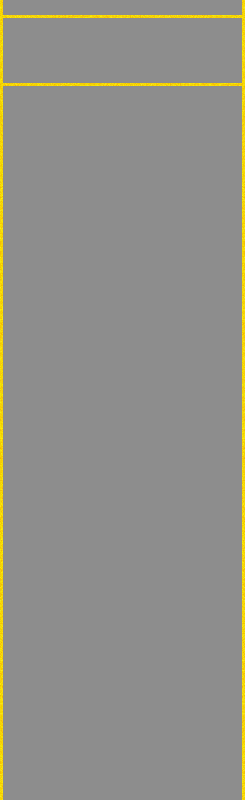
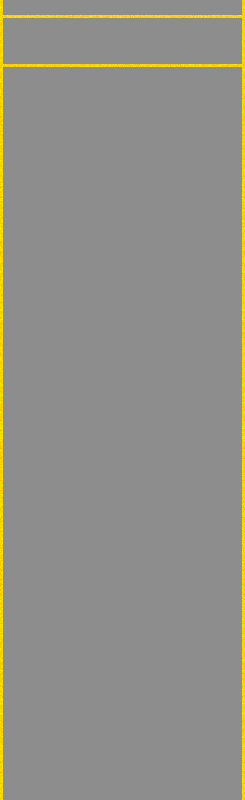
Note types reduced from 5 to 4 with note graphics.

Changed region(s): [[0.0286, 0.0625, 0.9714, 0.125]]

diff --git a/rhythm.py b/rhythm.py
@@ -43,10 +43,10 @@ def main(screen, track):
 	total_notes = 0
 	bad_notes = 0
 
-	tapped = [False, False, False, False, False]  # true if the key has not be released
+	tapped = [False, False, False, False]  # true if the key has not be released
 
 	# true if a note will be scored from presses q,w,e,r,t
-	scoring_presses = [False, False, False, False, False]
+	scoring_presses = [False, False, False, False]
 
 	while 1:
 		# event phase
@@ -68,24 +68,18 @@ def main(screen, track):
 				scoring_presses[1] = True
 		else:
 			tapped[1] = False
-		if keys[pygame.constants.K_e]:
+		if keys[pygame.constants.K_o]:
 			if not tapped[2]:
 				tapped[2] = True
 				scoring_presses[2] = True
 		else:
 			tapped[2] = False
-		if keys[pygame.constants.K_o]:
+		if keys[pygame.constants.K_p]:
 			if not tapped[3]:
 				tapped[3] = True
 				scoring_presses[3] = True
 		else:
 			tapped[3] = False
-		if keys[pygame.constants.K_p]:
-			if not tapped[4]:
-				tapped[4] = True
-				scoring_presses[4] = True
-		else:
-			tapped[4] = False
 
 		# logic phase
 
@@ -98,12 +92,10 @@ def main(screen, track):
 				if new_notes[0]:
 					notes.append(note.FireNote(note_speed))
 				if new_notes[1]:
-					notes.append(note.MetalNote(note_speed))
-				if new_notes[2]:
 					notes.append(note.EarthNote(note_speed))
-				if new_notes[3]:
+				if new_notes[2]:
 					notes.append(note.WaterNote(note_speed))
-				if new_notes[4]:
+				if new_notes[3]:
 					notes.append(note.AirNote(note_speed))
 
 		# fade in and countdown
@@ -127,7 +119,7 @@ def main(screen, track):
 
 		# scores a note if it is
 		for n in notes:
-			for key in range(0, 5):
+			for key in range(0, 4):
 				if n.score(key, scoring_presses):
 					notes_scored = notes_scored + 1
 					scoring_presses[key] = False
@@ -147,7 +139,7 @@ def main(screen, track):
 				bad_notes = bad_notes + 1
 				notes_scored = notes_scored - 1
 
-		scoring_presses = [False, False, False, False, False]  # reset score presses
+		scoring_presses = [False, False, False, False]  # reset score presses
 
 		# render phase
 

diff --git a/note.py b/note.py
@@ -33,20 +33,16 @@ class Note(object):
 				if key == 0 and scoring_presses[key]:
 					self.scored = True
 					return True
-			if self.type == 'metal':
+			if self.type == 'earth':
 				if key == 1 and scoring_presses[key]:
 					self.scored = True
 					return True
-			if self.type == 'earth':
+			if self.type == 'water':
 				if key == 2 and scoring_presses[key]:
 					self.scored = True
 					return True
-			if self.type == 'water':
-				if key == 3 and scoring_presses[key]:
-					self.scored = True
-					return True
 			if self.type == 'air':
-				if key == 4 and scoring_presses[key]:
+				if key == 3 and scoring_presses[key]:
 					self.scored = True
 					return True
 
@@ -57,29 +53,22 @@ class FireNote(Note):
 		super(FireNote, self).__init__(self.type, note_speed)
 
 
-class MetalNote(Note):
-	def __init__(self, note_speed):
-		self.type = 'metal'
-		super(MetalNote, self).__init__(self.type, note_speed)
-		self.rect = self.rect.move(45, 0)
-
-
 class EarthNote(Note):
 	def __init__(self, note_speed):
 		self.type = 'earth'
 		super(EarthNote, self).__init__(self.type, note_speed)
-		self.rect = self.rect.move(90, 0)
+		self.rect = self.rect.move(55, 0)
 
 
 class WaterNote(Note):
 	def __init__(self, note_speed):
 		self.type = 'water'
 		super(WaterNote, self).__init__(self.type, note_speed)
-		self.rect = self.rect.move(135, 0)
+		self.rect = self.rect.move(110, 0)
 
 
 class AirNote(Note):
 	def __init__(self, note_speed):
 		self.type = 'air'
 		super(AirNote, self).__init__(self.type, note_speed)
-		self.rect = self.rect.move(180, 0)
+		self.rect = self.rect.move(165, 0)
